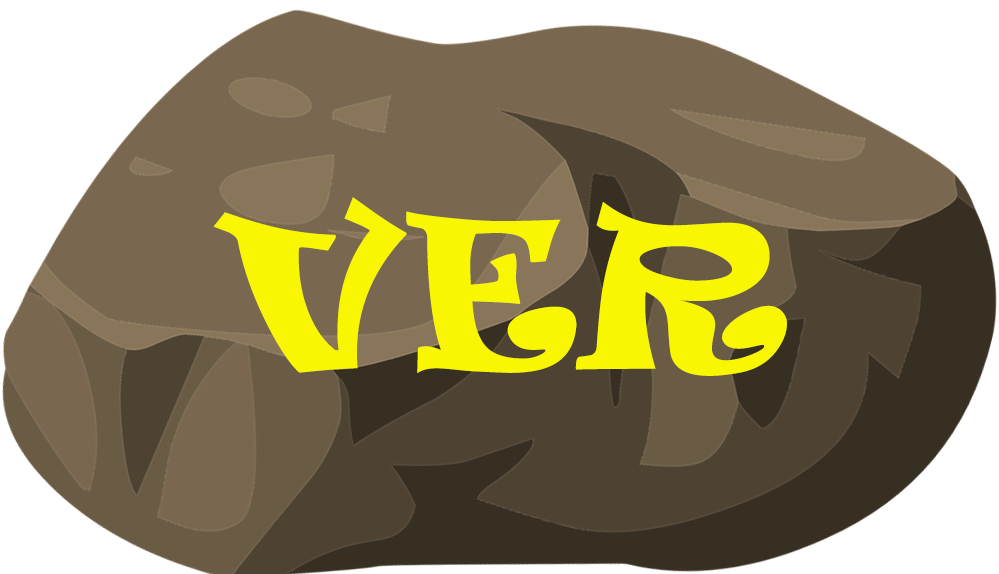
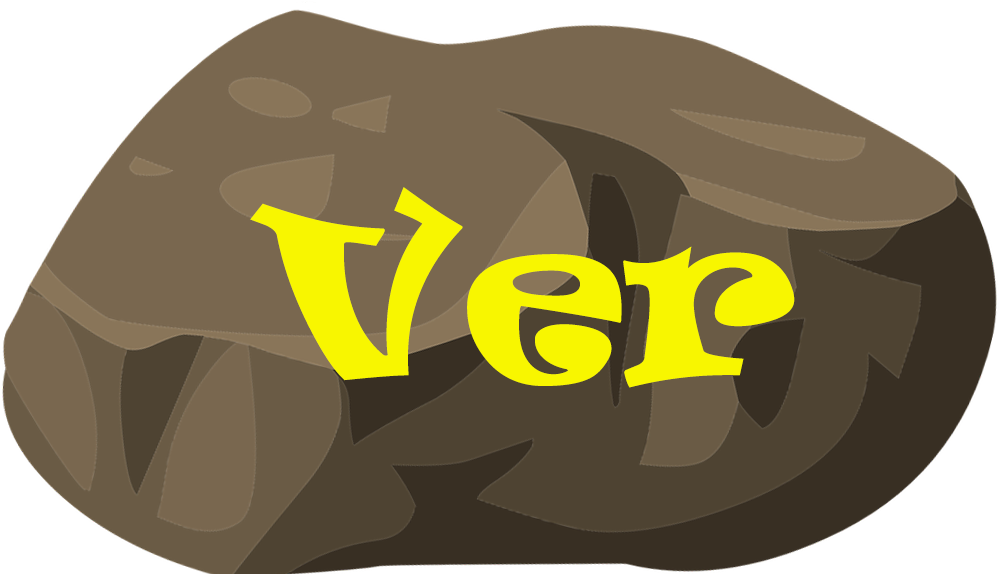
1)Logica de la jugada terminada (sin probar)

Changed region(s): [[0.2172, 0.3258, 0.8068, 0.6812]]

diff --git a/controlJugada.js b/controlJugada.js
@@ -1,22 +1,214 @@
 /* 
-Funciones dedicadas al crontrol de una jugada de partida
+ * Funciones dedicadas al crontrol de una jugada de partida
+ * Valores entrada
+ * CartaMano --> Carta de la mano seleccionada por el usuario (mano1,mano2,...,mano6)
+ * posicionTablero --> Posicion en el tablero que se quiere insertar la carta (entre 0 y 48)
+ * Errores
+    * 0 --> Si el error es critico(BBDD,fallos funcion,Etc)
+    * 1 --> Si son fallos relacionados con la funcionalidad(no encaja,ya existe una pieza en la posicion,etc)
+ * Retorno de la validacion de la jugada
+    * true --> La juagada es valida (se procede a formalizarla)
+    * false --> La jugada no es valida (se retorna el motivo por error con tipo de error 1)  
  */
 "use strict";
+var accBBDD =require("./accesoBBDD");
+var cartasJuego= require("./cartasjuego");
 module.exports={
     validarJugada: validarJugada
 };
-function  validarJugada(cartaMano,posicionTablero,callback)
+function  validarJugada(IDUsuario,IDPartida,cartaMano,posicionTablero,callback)
 {
     //validar entrada
-    //extraer las cartas dadas por el valor
+    if((cartaMano!==null || undefined) && cartaMano>=0 && cartaMano<=14)
+    {
+        if((posicionTablero!==null || undefined) && posicionTablero>=0 && posicionTablero<=48)
+        {
+            //Comprobar que la callida del tablero esta vacia
+            posicionTableroValida(IDPartida,posicionTablero,function(err,tipoError){
+                if(err)
+                {
+                    callback(err,tipoError);
+                }
+                else
+                {
+                    //Extraemos las posiciones de las casillas del entorno del la selecionada para insertar
+                    calcularPosicionEnTablero(IDPartida,posicionTablero,function(err,cartasTablero){
+                        if(err)
+                        {
+                            callback(err,0);
+                        }
+                        else
+                        {
+                            //Extraemos las cartas asociadas a la mano y a las casillas del entorno
+                            extraerCartas(cartaMano,cartasTablero,function(err,mano,tablero){
+                                if(err)
+                                {
+                                    callback(err,1);
+                                }
+                                else
+                                {
+                                    //Validamos la colocacion de la carta con respecto a los bordes
+                                    validacion(mano,tablero,function (err,estado){
+                                        if(err)
+                                        {
+                                            callback(err,1);
+                                        }
+                                        else
+                                        {
+                                            callback(null,estado);
+                                        }
+                                    });
+                                }
+                            });
+                        }
+                    });
+                }           
+            });
+        }
+        else
+        {
+            callback(new Error("La casilla del tablero seleccionada no es valida"),1);
+        }
+    }
+    else
+    {
+        callback(new Error("La carta de la mano seleccionada no es valida"),1);
+    }
 }
 /*======================================FUNCIONES AUXILIARES=======================================================*/
-
-function extraerCartas(cartaMano,posicionTablero,callback)
+//Comprueba si la casilla de isnercion esta vacia
+function posicionTableroValida(IDPartida,posicion,callback)
 {
-    
+    accBBDD.extraerUnaPieza(IDPartida,posicion,function(err,pieza){
+        if(err)
+        {
+            callback(err,0);
+        }
+        else
+        {
+            if(pieza[0].ID_Pieza===undefined)
+            {
+                callback(null);
+            }
+            else
+            {
+                callback(new Error("La posicion seleccionada ya esta ocupaa por otra pieza"),1);
+            }
+        }
+    });
 }
 //calcula las cartas que se han de sacar entorno a la posicion de la insercion
-function calcularPosicionEnTablero(){
-    
+function calcularPosicionEnTablero(IDPartida,posicionTablero,callback){
+    posiciones=[posicionTablero-7,posicionTablero-1,posicionTablero+1,posicionTablero+7];
+    accBBDD.extraerPiezasEntorno (IDPartida,posiciones,function (err,tiposPieza){
+        if(err)
+        {
+            callback(err,null);
+        }
+        else
+        {
+            callback(null,tiposPieza);
+        }
+    });
 }
+//Extrae la cartas cartas del array que se han de jugar
+function extraerCartas(cartaMano,cartasTablero,callback)
+{
+    var tablero=[];
+    var contNull=0;
+    cartasTablero.forEach(function (tipo)
+    {
+        if(tipo===undefined)
+        {
+            tablero.push(null);
+            contNull++;
+        }
+        else
+        {
+            tablero.push(cartasJuego[tipo]);
+        }
+    });
+    if(contNull===4)
+    {
+        callback(new Error("No existe ninguna carta adyacente a la posicion seleccionada"),null);
+    }
+    else
+    {
+        callback(null,cartasJuego[cartaMano],tablero);
+    }
+}
+function validacion(mano,tablero,callback)
+{
+    var key=2;
+    var cont=0;
+    var valido=false;
+    //Recorremos las propiedades la mano desde la 2 (up)
+    for (key in mano) 
+    {
+        if (mano.hasOwnProperty(key)) 
+        {
+           // Si hay pieza en ese lado
+           if(tablero[cont]!==null)
+           {
+                //Si pieza del tablero es superior
+                if(cont===0)
+                {
+                    //Si mano UP es distindo de pieza del tablero DOWN
+                    if(mano[key]!==tablero[cont].down)
+                    {
+                        valido=false;
+                    }
+                    else
+                    {
+                        valido=true;
+                    }
+                }
+                //Si pieza del tablero es inferior
+                else if(cont===1)
+                {
+                    //Si mano DOWN es distindo de pieza del tablero UP
+                    if(mano[key]!==tablero[cont].up)
+                    {
+                        valido=false;
+                    }
+                    else
+                    {
+                        valido=true;
+                    }
+                }
+                //Si pieza del tablero es la izquierda
+                else if(cont===2)
+                {
+                    //Si mano LEFT es distindo de pieza del tablero RIGTH
+                    if(mano[key]!==tablero[cont].rigth)
+                    {
+                        valido=false;
+                    }
+                    else
+                    {
+                        valido=true;
+                    }
+                }
+                //Si pieza del tablero es la derecha
+                else
+                {
+                    //Si mano RIGTH es distindo de pieza del tablero LEFT
+                    if(mano[key]!==tablero[cont].left)
+                    {
+                        valido=false;
+                    }
+                    else
+                    {
+                        valido=true;
+                    }
+                }
+           }
+        }
+        cont++;
+    }
+    if(valido===false)
+        callback(new Error("La colocacion no es valida"),null);
+    else
+        callback(null,true);
+}
+

diff --git a/accesoBBDD.js b/accesoBBDD.js
@@ -45,6 +45,8 @@ module.exports={
     extraerCartaManoJugador:extraerCartaManoJugador,
     //Piezas_Partida
     extraerPiezas:extraerPiezas,
+    extraerUnaPieza:extraerUnaPieza,
+    extraerPiezasEntorno:extraerPiezasEntorno,
     insertarPieza:insertarPieza,
     insertarPiezasIniciales:insertarPiezasIniciales
 };
@@ -1292,6 +1294,62 @@ function extraerPiezas (IDPartida,callback)
     {
             query="SELECT Pos_Pieza,Tipo_Pieza,Propietario FROM Piezas_partida WHERE ID_Partida= ?";
             valoresEntrada=[IDPartida];
+            //Conectamos con la consulta requerida
+            console.log(mysql.format(query,valoresEntrada));
+            conexion.query(mysql.format(query,valoresEntrada),function(err, rows) 
+            {
+                if (err) 
+                {
+                    console.error(err);
+                    callback(err,null);
+                } 
+                else 
+                {
+                    callback(null,rows);
+                    conexion.end();
+                }
+            });
+    }
+    else
+    {
+        callback(new Error("El ID de partida no es valido"));
+    }
+}
+function extraerUnaPieza (IDPartida,posicion,callback)
+{
+    var conexion = mysql.createConnection(config.conexionBBDD);
+    if(IDPartida!==null)
+    {
+            query="SELECT ID_Pieza FROM Piezas_partida WHERE ID_Partida= ? AND Pos_Pieza = ?";
+            valoresEntrada=[IDPartida,posicion];
+            //Conectamos con la consulta requerida
+            console.log(mysql.format(query,valoresEntrada));
+            conexion.query(mysql.format(query,valoresEntrada),function(err, rows) 
+            {
+                if (err) 
+                {
+                    console.error(err);
+                    callback(err,null);
+                } 
+                else 
+                {
+                    callback(null,rows);
+                    conexion.end();
+                }
+            });
+    }
+    else
+    {
+        callback(new Error("El ID de partida no es valido"));
+    }
+}
+function extraerPiezasEntorno (IDPartida,posiciones,callback)
+{
+    var conexion = mysql.createConnection(config.conexionBBDD);
+    if(IDPartida!==null)
+    {
+            query="SELECT Tipo_Pieza FROM Piezas_partida WHERE ID_Partida= ? AND Pos_Pieza IN(?,?,?,?)";
+            valoresEntrada=[IDPartida,posiciones[0],posiciones[1],posiciones[2],posiciones[3]];
             //Conectamos con la consulta requerida
             console.log(mysql.format(query,valoresEntrada));
             conexion.query(mysql.format(query,valoresEntrada),function(err, rows) 

diff --git a/controlPartidas.js b/controlPartidas.js
@@ -327,7 +327,7 @@ function controlJugada(IDPartida,IDUsuario,cartaUsada,posTablero,callback)
         else
         {
             //Controlar la juagada
-            ctrlJugada.validarJugada(cartaUsada,posTablero,function(err){
+            ctrlJugada.validarJugada(IDPartida,IDUsuario,cartaUsada,posTablero,function(err){
                 if(err)
                 {
                     callback(err,0)

diff --git a/static/css/style.css b/static/css/style.css
@@ -1,7 +1,16 @@
+@import '//fonts.googleapis.com/css?family=Bangers';
 body{
 	background: #51B6E0;
 	margin: 0px;
-	font-family: serif;
+}
+body h1{
+    font-family: 'Bangers';
+}
+body h2{
+    font-family: 'Asset';
+}
+body h3{
+    font-family: 'Asset';
 }
 .cabecera{
 }
